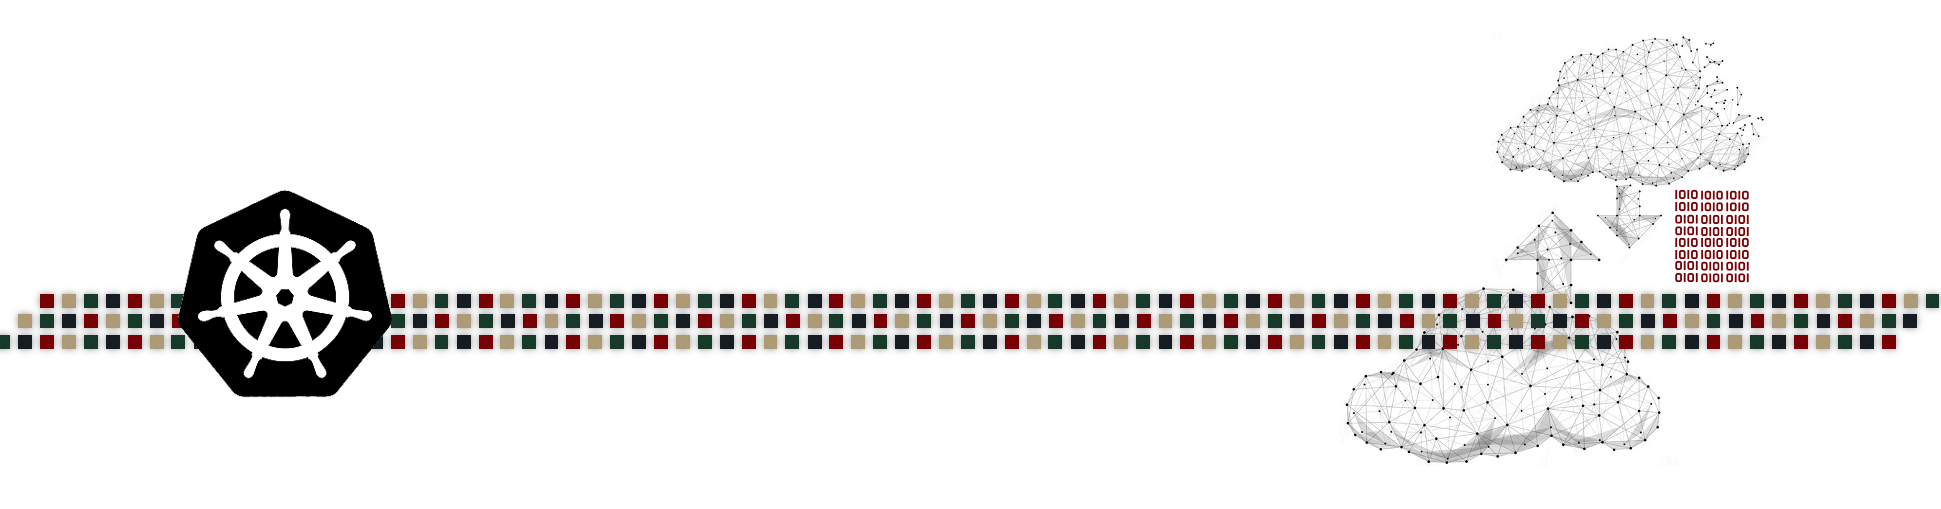
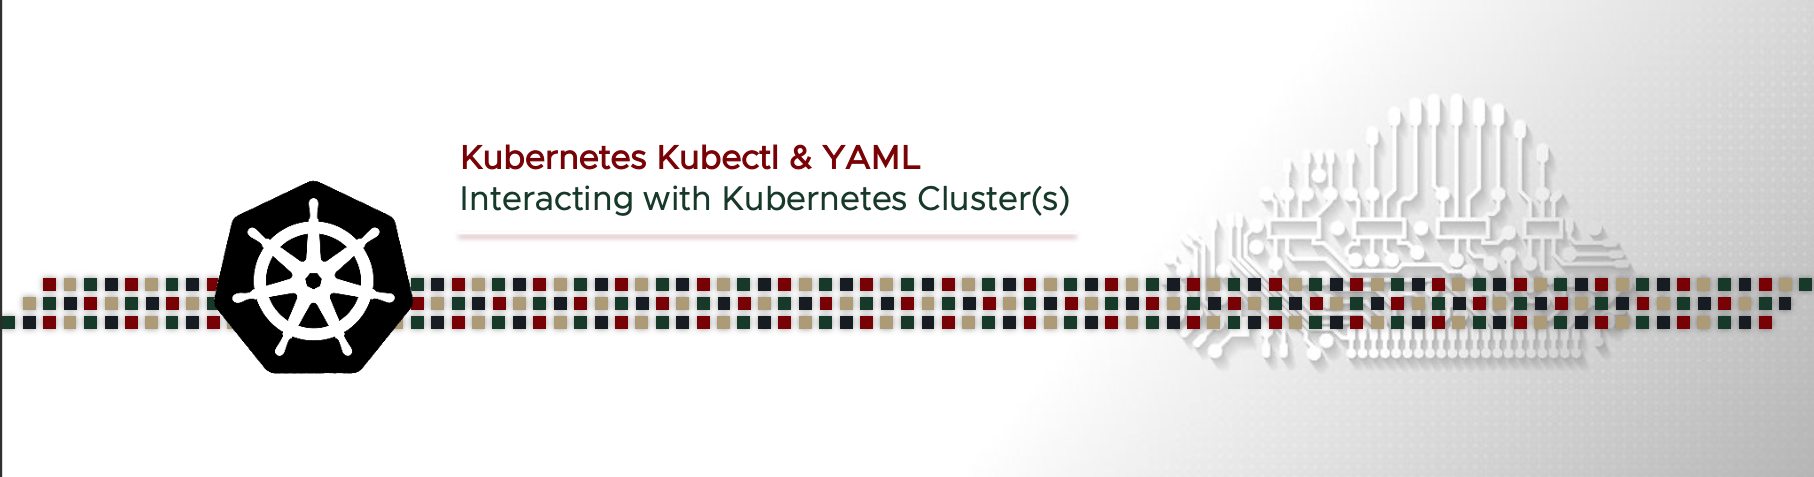
fc

diff --git a/4. Kubernetes Kubectl and YAML/README.md b/4. Kubernetes Kubectl and YAML/README.md
@@ -1,4 +1,4 @@
-# Kubernetes Kubectl & YAML
+# Kubernetes Kubectl & YAML - Interacting with Kubernetes Cluster(s)
 
 User Interaction with a Kubernetes cluster to manage a kubernetes cluster or deploy object on the cluster is done through the communication with the [Kube-API-Server](https://github.com/tahershaker/Learning-Kubernetes/tree/main/2.%20Kubernetes%20Cluster%20Architecture%20-%20Components%20%26%20High-level%20Main%20Objects#3a-i-api-server) as explained in a previous section. The communication with the API server can be through a direct REST API call or through the CLI tool called `kubectl`. In most cases kubectl is the tool used to interact with a Kubernetes Cluster. To deploy an object on top of a Kubernetes Cluster, user define the object kind, specs, and desired state of this object in a manifest file in a `YAML` file format. JSON file can also be used but normally YAML files are most commonly used. Thus, managing a kubernetes cluster and objects are based on `kubectl` CLI tool and the `YAML` files.
 

diff --git a/2. Kubernetes Cluster Architecture/README.md b/2. Kubernetes Cluster Architecture/README.md
@@ -1,4 +1,4 @@
-# Kubernetes Cluster Architecture - Components & High-level Main Objects
+# Kubernetes Architecture - Cluster Architecture, Components & Main Objects
 
 Kubernetes is a cluster environment consist of several machine (called Nodes). Kubernetes consist of objects (such as the nodes) and several components and the kubernetes cluster is designed and architected in a specific way. This kubernetes cluster is known as a kubernetes architecture as this cluster have specific components, objects, and requirements. Each component is deployed in a specific way and perform a specific task.
 

diff --git a/3. Building A Kubernetes Cluster/README.md b/3. Building A Kubernetes Cluster/README.md
@@ -1,4 +1,4 @@
-# Building A Kubernetes Cluster (Step-By-Step) Using Kubeadm
+# Building A Kubernetes Cluster - Step-By-Step Guide Using Kubeadm
 
 Building a kubernetes cluster can be complex, fortunately, there are some tools that can help and automate the building and installation process of a kubernetes cluster. Several tools are available where some of them can deploy a kubernetes cluster starting from deploying the machines themselves than install all required resources and kubernetes components on top. One of the most well-known tool is Kubeadm.
 

diff --git a/5. Kubernetes Cluster Administration & Management/README.md b/5. Kubernetes Cluster Administration & Management/README.md
@@ -1,0 +1,10 @@
+# Kubernetes Cluster Management - Cluster Management, Administration, & Day 2 Operations
+
+
+---
+
+<p align="center">
+    <img src="images/IntroPic.png">
+</p>
+
+---

diff --git a/6. Kubernetes Workloads Objects/README.md b/6. Kubernetes Workloads Objects/README.md
@@ -1,4 +1,4 @@
-# Kubernetes Workloads Objects
+# Kubernetes Workloads Objects - Containers, Pods, ReplicaSet, Deployment & Supporting Objects
 
 
 ---
